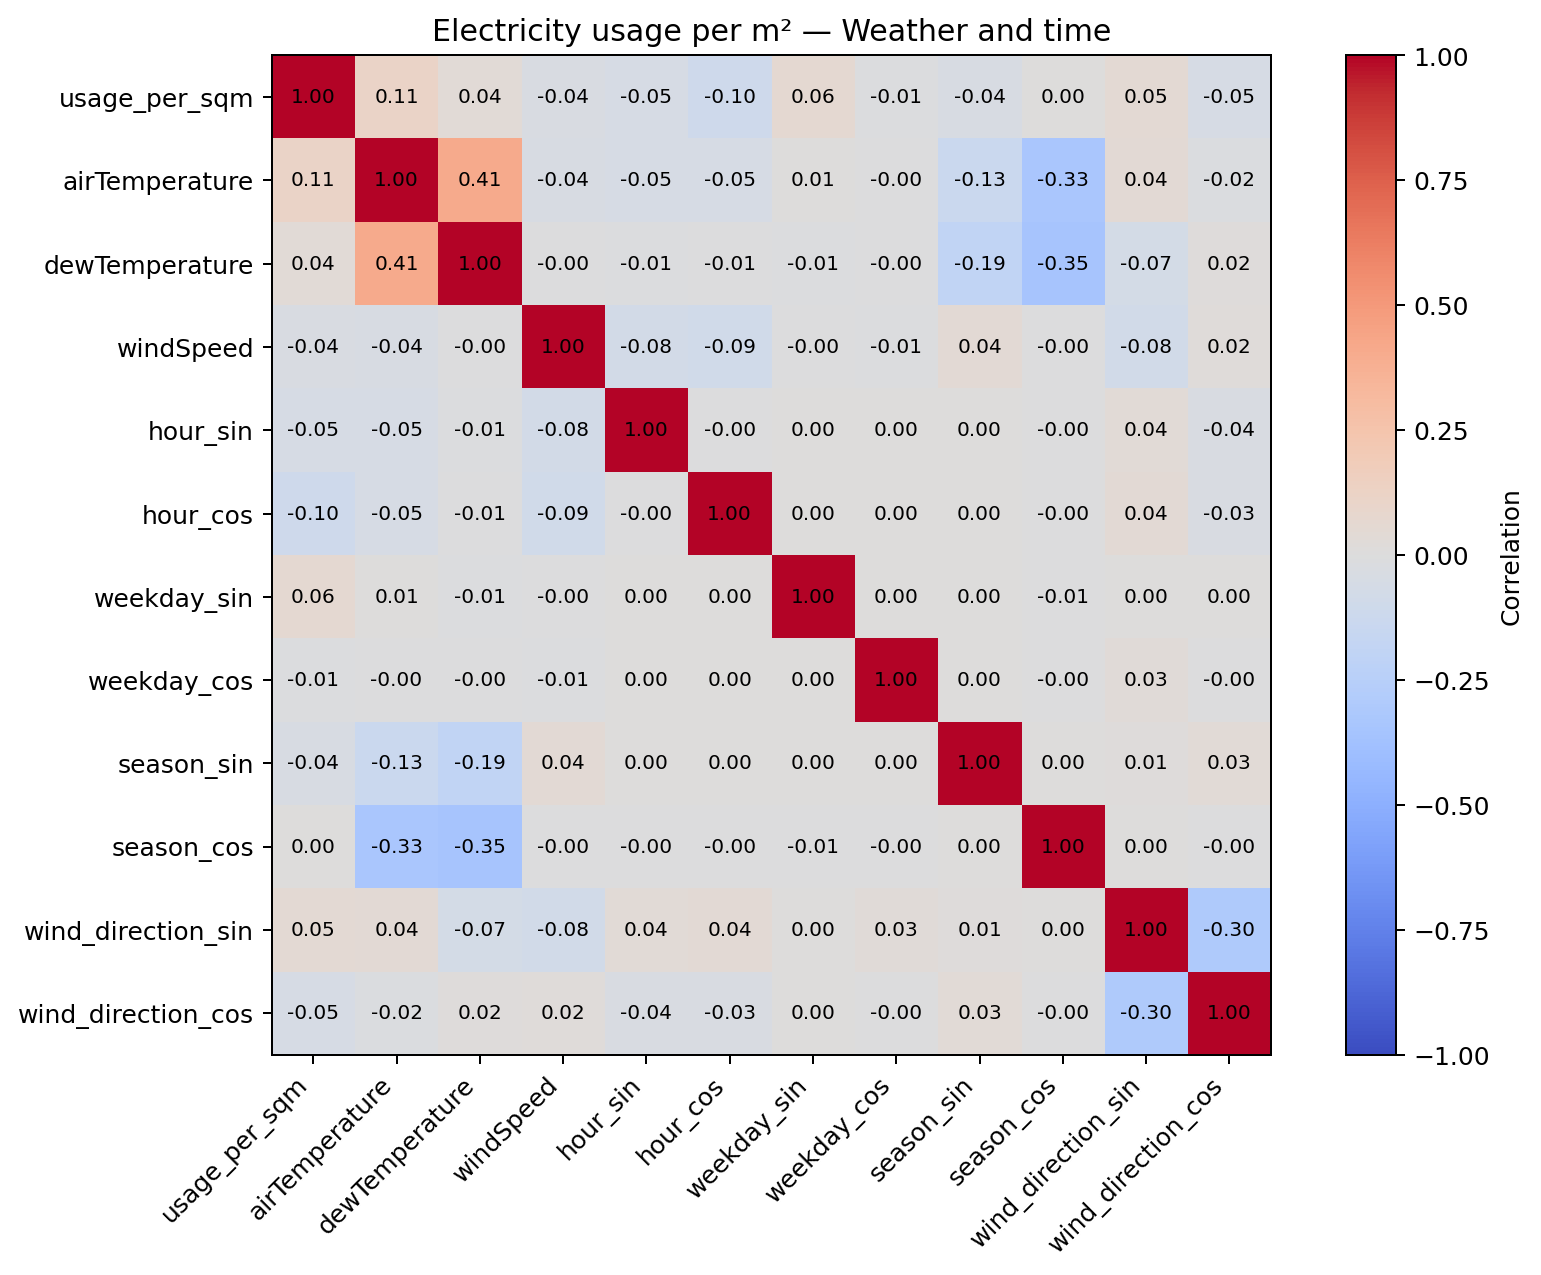
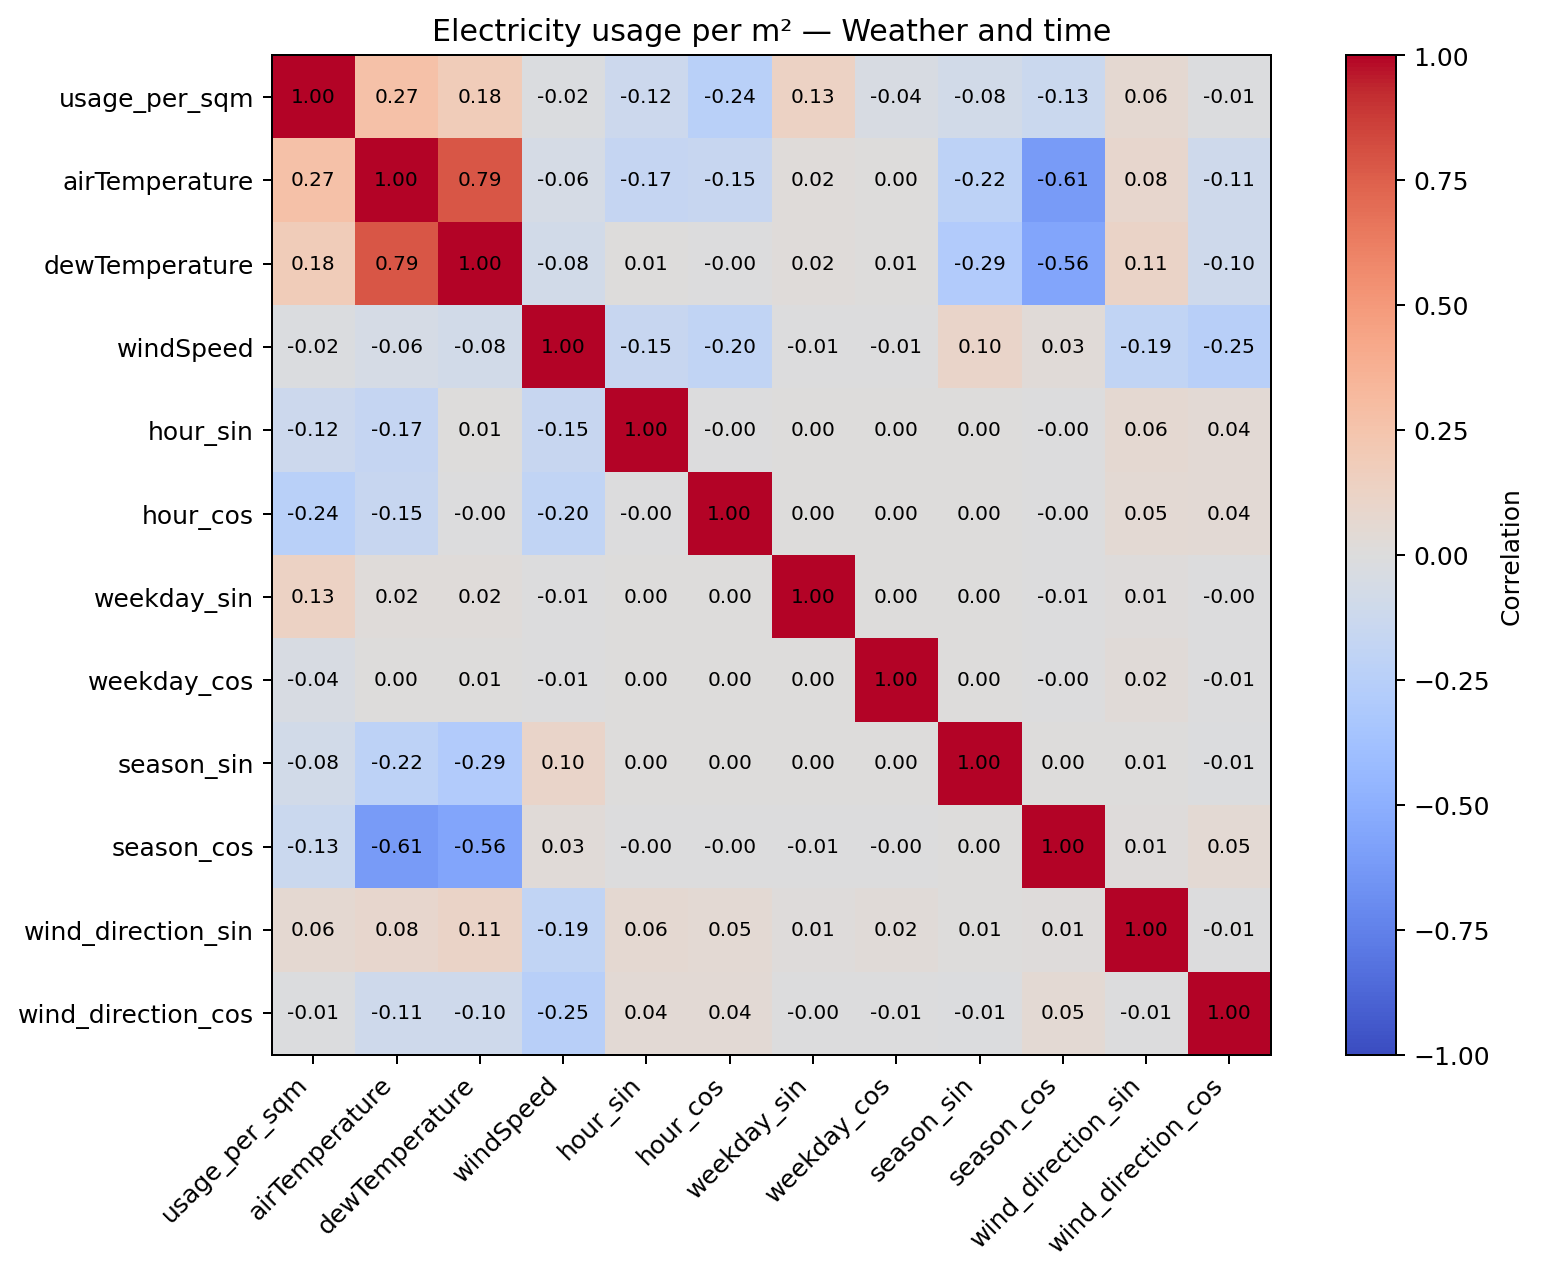
updated pre-prossecing, and added a few more graphing tools

diff --git a/building-data-genome-project-2/data_cleaner_custom/data_cleaner_custom_m.py b/building-data-genome-project-2/data_cleaner_custom/data_cleaner_custom_m.py
@@ -12,6 +12,9 @@ uniqe_value_threshold = 1
 consecutive_missing_threshold = 100*24
 lower_quantile = 0.25
 upper_quantile = 0.75
+iqr_multiplier = 1.5
+rolling_window = 720  # 30 days of hourly readings
+min_periods = 24  # allow rolling bounds after one day of readings
 
 
 ## data paths/managment
@@ -21,6 +24,12 @@ output_folder = project_folder / "data" / "meters" / "my_cleand_custom"
 
 electricity_file = project_folder / "data" / "meters" / "raw" / "electricity.csv"
 chilledwater_file = project_folder / "data" / "meters" / "raw" / "chilledwater.csv"
+gas_file = project_folder / "data" / "meters" / "raw" / "gas.csv"
+hotwater_file = project_folder / "data" / "meters" / "raw" / "hotwater.csv"
+irrigation_file = project_folder / "data" / "meters" / "raw" / "irrigation.csv"
+solar_file = project_folder / "data" / "meters" / "raw" / "solar.csv"
+steam_file = project_folder / "data" / "meters" / "raw" / "steam.csv"
+water_file = project_folder / "data" / "meters" / "raw" / "water.csv"
 weather_file = project_folder / "data" / "weather" / "weather.csv"
 metadata_file = project_folder / "data" / "metadata" / "metadata.csv"
 
@@ -28,18 +37,21 @@ metadata_file = project_folder / "data" / "metadata" / "metadata.csv"
 
 def find_missing_data_ids(data, *, check_negative_and_runs=False):
 
+    protected_columns = [column for column in ("timestamp", "site_id") if column in data]
+    measurement_data = data.drop(columns=protected_columns)
+
     ## remove columns with only a single value
     ids_to_remove = []
-    for col in data.columns:  
-        if data[col].nunique() <= uniqe_value_threshold:
+    for col in measurement_data.columns:
+        if measurement_data[col].nunique() <= uniqe_value_threshold:
             ids_to_remove.append(col)
 
     ## remove duplicate columns
-    duplicate_columns = data.T.duplicated()
-    ids_to_remove.extend(data.columns[duplicate_columns])
+    duplicate_columns = measurement_data.T.duplicated()
+    ids_to_remove.extend(measurement_data.columns[duplicate_columns])
 
     if check_negative_and_runs:
-        numeric_data = data.select_dtypes(include="number")
+        numeric_data = measurement_data.select_dtypes(include="number")
 
         ## handle columns whose non-missing numeric values are all negative
         has_values = numeric_data.notna().any()
@@ -61,24 +73,57 @@ def find_missing_data_ids(data, *, check_negative_and_runs=False):
 
 
 def clean_data(data, *, check_negative_and_runs=False):
-    """Drop flagged columns, then replace numeric outliers with NaN."""
+    """Drop unusable columns, then replace rolling-IQR outliers with NaN."""
     ids_to_remove = find_missing_data_ids(
         data, check_negative_and_runs=check_negative_and_runs
     )
-    return filter_quantile_outliers(data.drop(columns=ids_to_remove))
+    return filter_rolling_iqr_outliers(data.drop(columns=ids_to_remove))
 
 
-def filter_quantile_outliers(data):
-    """Replace numeric readings outside the configured quantiles with NaN."""
+def filter_rolling_iqr_outliers(data):
+    """Apply a centered rolling IQR fence independently to each numeric column."""
     filtered_data = data.copy()
     numeric_columns = filtered_data.select_dtypes(include="number").columns
-    lower_bounds = filtered_data[numeric_columns].quantile(lower_quantile)
-    upper_bounds = filtered_data[numeric_columns].quantile(upper_quantile)
-    filtered_data[numeric_columns] = filtered_data[numeric_columns].where(
-        filtered_data[numeric_columns].ge(lower_bounds)
-        & filtered_data[numeric_columns].le(upper_bounds)
+    if numeric_columns.empty:
+        return filtered_data
+
+    # Rolling bounds adapt to seasonal and operating changes instead of using
+    # one global range for a meter's entire time series. Centering also avoids
+    # applying a past-only baseline at the end of the sequence.
+    readings = filtered_data[numeric_columns]
+    rolling = readings.rolling(
+        window=rolling_window, min_periods=min_periods, center=True
+    )
+    first_quartile = rolling.quantile(lower_quantile)
+    third_quartile = rolling.quantile(upper_quantile)
+    iqr = third_quartile - first_quartile
+    lower_bounds = first_quartile - iqr_multiplier * iqr
+    upper_bounds = third_quartile + iqr_multiplier * iqr
+    filtered_data[numeric_columns] = readings.where(
+        readings.ge(lower_bounds) & readings.le(upper_bounds)
     )
     return filtered_data
+
+
+def filter_weather_by_site(data):
+    """Apply rolling IQR per site and numeric weather variable only."""
+    if "site_id" not in data.columns:
+        raise ValueError("Weather data must include a 'site_id' column.")
+
+    filtered_sites = []
+    for _, site_data in data.groupby("site_id", sort=False, dropna=False):
+        site_data = site_data.sort_values("timestamp").copy()
+        timestamps = site_data["timestamp"].copy()
+        site_ids = site_data["site_id"].copy()
+        readings = site_data.drop(columns=["timestamp", "site_id"])
+        readings = filter_rolling_iqr_outliers(readings)
+        readings.insert(0, "site_id", site_ids.to_numpy())
+        readings.insert(0, "timestamp", timestamps.to_numpy())
+        filtered_sites.append(readings)
+
+    if not filtered_sites:
+        return data.copy()
+    return pd.concat(filtered_sites, ignore_index=True)[data.columns]
 
 
 def pad_hourly_sequence(data, group_columns=None):
@@ -111,6 +156,27 @@ def pad_hourly_sequence(data, group_columns=None):
         return data.copy()
     return pd.concat(padded_groups, ignore_index=True)[data.columns]
 
+
+def clean_and_save_meter(file_path, ids_already_found):
+    """Clean one meter type, report newly flagged columns, and save it."""
+    meter_data = pd.read_csv(file_path, parse_dates=["timestamp"])
+    meter_data = pad_hourly_sequence(meter_data)
+    check_negative_and_runs = file_path.stem == "electricity"
+
+    print(f"Analysing {file_path.stem} data")
+    ids_to_remove = find_missing_data_ids(
+        meter_data, check_negative_and_runs=check_negative_and_runs
+    )
+    new_ids = [meter_id for meter_id in ids_to_remove if meter_id not in ids_already_found]
+    ids_already_found.extend(new_ids)
+    print(f"{len(new_ids)} new solutions found")
+
+    cleaned_data = filter_rolling_iqr_outliers(meter_data.drop(columns=ids_to_remove))
+    output_file = output_folder / f"{file_path.stem}_cleaned.csv"
+    cleaned_data.to_csv(output_file, index=False)
+    print(f"Saved {output_file}")
+    return ids_already_found
+
 def remove_id_dupes(ids):
     cleaned_ids = []
     for meter_id in ids:
@@ -133,73 +199,38 @@ def remove_id_dupes(ids):
 
 #### main
 def main():
-    #### get data
-    electricity_data = pd.read_csv(electricity_file, parse_dates=(["timestamp"]))
-    chilledwater_data = pd.read_csv(chilledwater_file, parse_dates=(["timestamp"]))
+    #### get weather data
     weather_data = pd.read_csv(weather_file, parse_dates=(["timestamp"]))
-    metadata = pd.read_csv(metadata_file)
 
-    #### pad missing hourly timestamps
-    electricity_data = pad_hourly_sequence(electricity_data)
-    chilledwater_data = pad_hourly_sequence(chilledwater_data)
+    #### pad missing hourly timestamps for each weather site
     weather_data = pad_hourly_sequence(weather_data, group_columns=["site_id"])
 
     output_folder.mkdir(parents=True, exist_ok=True)
 
-    #### find and report columns to remove
+    #### clean and save all meter types
     ids = []
+    ids = clean_and_save_meter(electricity_file, ids)
+    ids = clean_and_save_meter(chilledwater_file, ids)
+    ids = clean_and_save_meter(gas_file, ids)
+    ids = clean_and_save_meter(hotwater_file, ids)
+    ids = clean_and_save_meter(irrigation_file, ids)
+    ids = clean_and_save_meter(solar_file, ids)
+    ids = clean_and_save_meter(steam_file, ids)
+    ids = clean_and_save_meter(water_file, ids)
 
-    print("Analysing electricity data")
-    ids_electrical = find_missing_data_ids(
-        electricity_data, check_negative_and_runs=True
-    )
-    previous_count = len(ids)
-    ids.extend(ids_electrical)
-    ids = remove_id_dupes(ids)
-    print(f"{len(ids) - previous_count} new solutions found")
-
-    print("Analysing chilled-water data")
-    ids_chilledwater = find_missing_data_ids(chilledwater_data)
-    previous_count = len(ids)
-    ids.extend(ids_chilledwater)
-    ids = remove_id_dupes(ids)
-    print(f"{len(ids) - previous_count} new solutions found")
-
+    #### clean weather data
     print("Analysing weather data")
     ids_weather = find_missing_data_ids(
         weather_data, check_negative_and_runs=True
     )
-    previous_count = len(ids)
-    ids.extend(ids_weather)
-    ids = remove_id_dupes(ids)
-    print(f"{len(ids) - previous_count} new solutions found")
-
-    print(f"Finished, total count {len(ids)}, ids: {ids}")
-
-    #### clean electricity data
-    print("Cleaning electricity data")
-    electricity_data = filter_quantile_outliers(
-        electricity_data.drop(columns=ids_electrical)
-    )
-    electricity_data.to_csv(output_folder / "electricity_cleaned.csv", index=False)
-    print(f"Saved {output_folder / 'electricity_cleaned.csv'}")
-
-    #### clean chilled-water data
-    print("Cleaning chilled-water data")
-    chilledwater_data = filter_quantile_outliers(
-        chilledwater_data.drop(columns=ids_chilledwater)
-    )
-    chilledwater_data.to_csv(output_folder / "chilledwater_cleaned.csv", index=False)
-    print(f"Saved {output_folder / 'chilledwater_cleaned.csv'}")
-
-    #### clean weather data
-    print("Cleaning weather data")
-    weather_data = filter_quantile_outliers(
-        weather_data.drop(columns=ids_weather)
-    )
+    new_weather_ids = [meter_id for meter_id in ids_weather if meter_id not in ids]
+    ids.extend(new_weather_ids)
+    print(f"{len(new_weather_ids)} new solutions found")
+    weather_data = filter_weather_by_site(weather_data.drop(columns=ids_weather))
     weather_data.to_csv(output_folder / "weather_cleaned.csv", index=False)
     print(f"Saved {output_folder / 'weather_cleaned.csv'}")
 
+    print(f"Finished, total count {len(ids)}, ids: {ids}")
 
 
 

diff --git a/building-data-genome-project-2/analazys_tools_m/weather_cleaning_comparison.py b/building-data-genome-project-2/analazys_tools_m/weather_cleaning_comparison.py
@@ -1,0 +1,82 @@
+"""Compare selected raw and custom-cleaned weather measurements."""
+
+from pathlib import Path
+
+import matplotlib
+
+matplotlib.use("Agg")
+import matplotlib.pyplot as plt
+import pandas as pd
+
+
+project_folder = Path(__file__).resolve().parent.parent
+raw_weather_file = project_folder / "data" / "weather" / "weather.csv"
+clean_weather_file = (
+    project_folder / "data" / "meters" / "my_cleand_custom" / "weather_cleaned.csv"
+)
+output_folder = project_folder / "figures" / "my_cleand_custom" / "weather_comparison"
+
+weather_variables = ["airTemperature", "dewTemperature", "windSpeed"]
+
+
+def load_weather(path):
+    """Load weather data and keep only comparison fields available in the file."""
+    data = pd.read_csv(path, parse_dates=["timestamp"])
+    columns = [
+        column for column in weather_variables
+        if column in data.columns
+    ]
+    if not columns:
+        raise ValueError(f"No selected weather variables found in {path}.")
+    return data[["timestamp", "site_id", *columns]]
+
+
+def main():
+    for path in (raw_weather_file, clean_weather_file):
+        if not path.is_file():
+            raise FileNotFoundError(f"Weather data file not found: {path}")
+
+    raw = load_weather(raw_weather_file)
+    cleaned = load_weather(clean_weather_file)
+    variables = [column for column in weather_variables if column in raw and column in cleaned]
+    comparison = raw.merge(
+        cleaned,
+        on=["timestamp", "site_id"],
+        how="inner",
+        suffixes=("_raw", "_cleaned"),
+    )
+    if comparison.empty:
+        raise ValueError("Raw and cleaned weather files have no matching site/timestamp rows.")
+
+    output_folder.mkdir(parents=True, exist_ok=True)
+    site_id = comparison["site_id"].dropna().iloc[0]
+    site_data = comparison[comparison["site_id"] == site_id].sort_values("timestamp")
+
+    for variable in variables:
+        raw_column = f"{variable}_raw"
+        cleaned_column = f"{variable}_cleaned"
+        fig, axes = plt.subplots(2, 1, figsize=(14, 8), sharex=True)
+        axes[0].plot(site_data["timestamp"], site_data[raw_column], label="Raw", alpha=0.7)
+        axes[0].plot(site_data["timestamp"], site_data[cleaned_column], label="Cleaned", alpha=0.8)
+        axes[0].set_title(f"{variable} over time — site {site_id}")
+        axes[0].set_ylabel(variable)
+        axes[0].legend()
+        axes[0].grid(alpha=0.25)
+
+        difference = site_data[cleaned_column] - site_data[raw_column]
+        axes[1].plot(site_data["timestamp"], difference, color="#c44e52")
+        axes[1].axhline(0, color="black", linewidth=0.8)
+        axes[1].set_title(f"Cleaning difference (cleaned − raw) — site {site_id}")
+        axes[1].set_xlabel("Timestamp")
+        axes[1].set_ylabel(f"Change in {variable}")
+        axes[1].grid(alpha=0.25)
+
+        fig.tight_layout()
+        fig.savefig(output_folder / f"{variable}_raw_vs_cleaned.png", dpi=180)
+        plt.close(fig)
+
+    print(f"Saved weather comparison plots for site {site_id} in {output_folder}")
+
+
+if __name__ == "__main__":
+    main()
